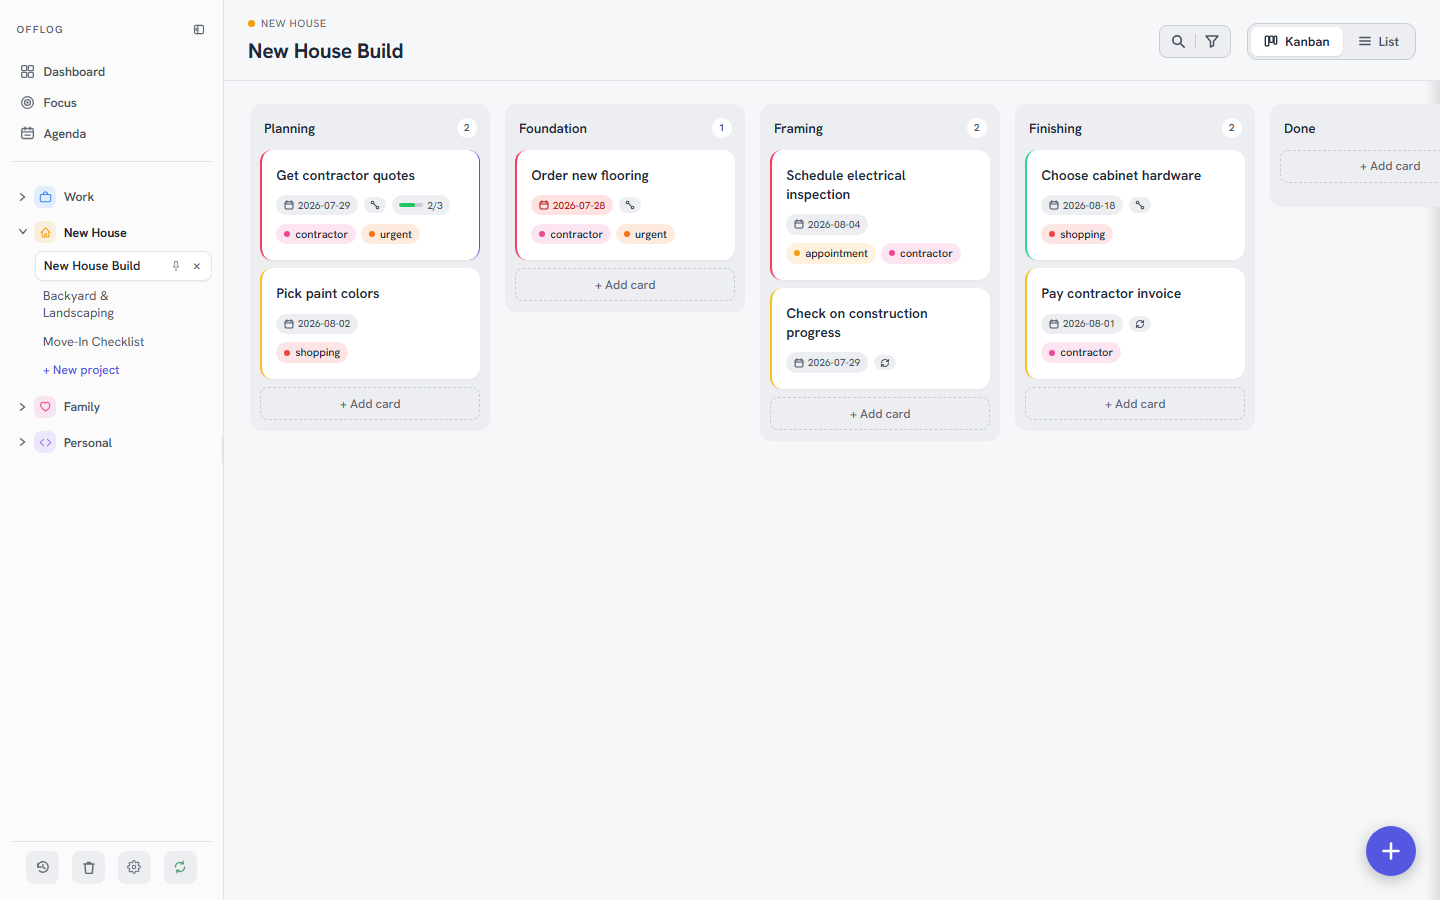
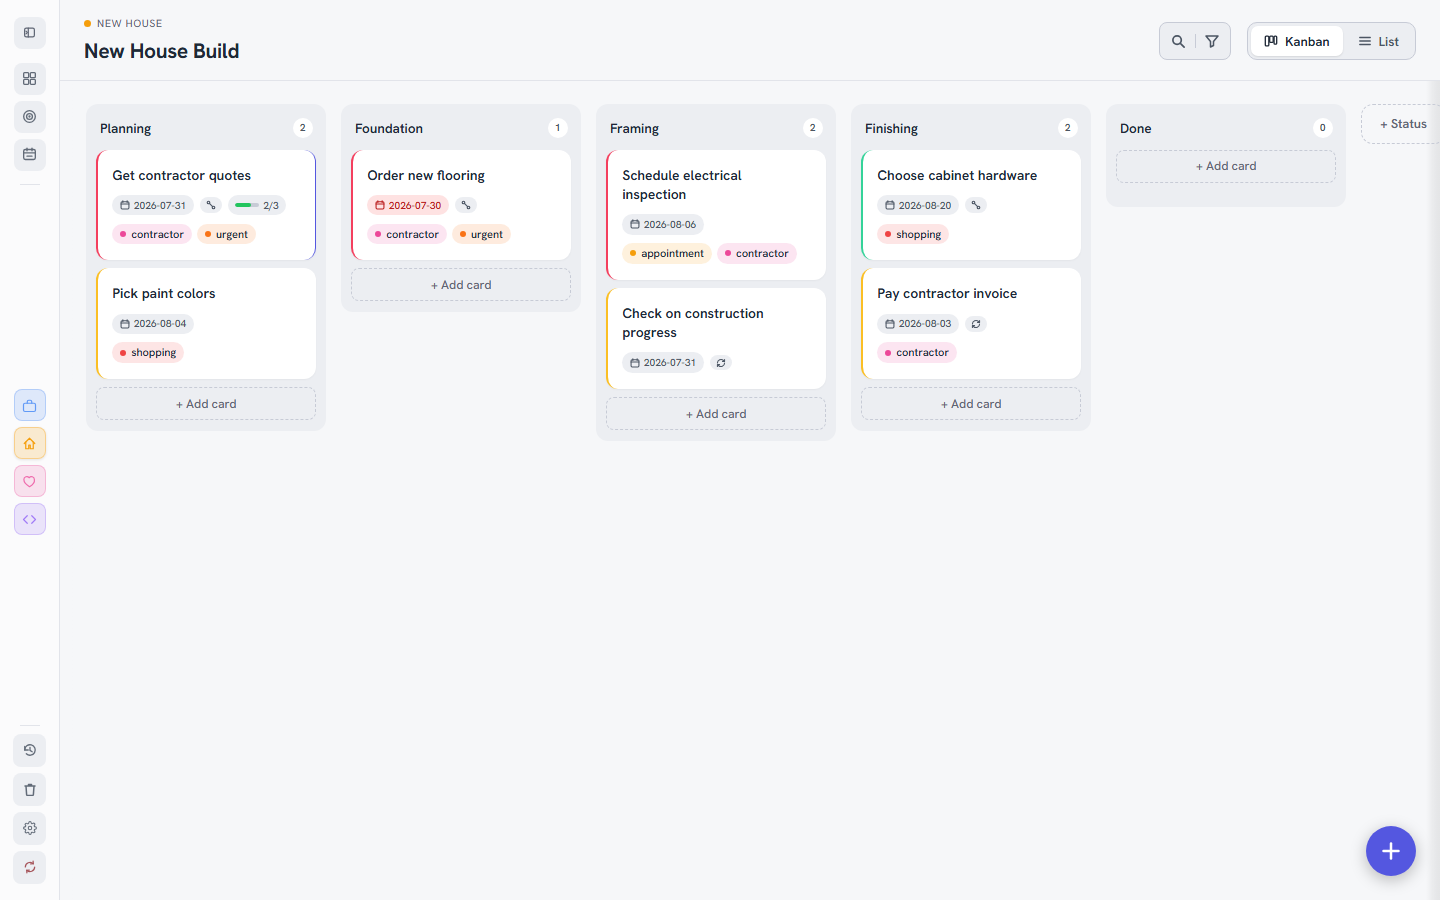
fix: retake stale screenshots, rename app.exe to Offlog.exe
Two README screenshots still showed the removed Week view toggle
(carddetail, search) -- regenerated both from the real demo dataset
via a scripted Playwright pass, plus retook the Kanban shot with the
sidebar collapsed and the task-detail shot with Extras open. Also gives
the desktop binary an explicit [[bin]] name so Task Manager's Startup
list shows "Offlog" instead of "app.exe".

diff --git a/README.md b/README.md
@@ -65,7 +65,7 @@ Real captures from a real build — no mockups, no Lorem Ipsum.
   <tr>
     <td width="50%" align="center">
       <img src="docs/images/screenshot-carddetail-desktop.png" alt="Task detail panel over the Agenda calendar view">
-      <br><sub><b>Task detail</b> — full editor over Agenda's week calendar</sub>
+      <br><sub><b>Task detail</b> — full editor over Agenda's month calendar</sub>
     </td>
     <td width="50%" align="center">
       <img src="docs/images/screenshot-search-desktop.png" alt="Global search / command palette">
